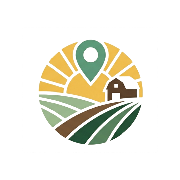
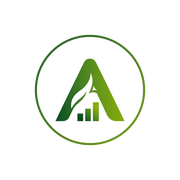
fix: login, register, and forgot pass not in full viewport and branding
add: layout and skeletal loading

Changed region(s): [[0.1667, 0.1667, 0.8333, 0.8333]]

diff --git a/frontend/src/styles/portal.css b/frontend/src/styles/portal.css
@@ -1,0 +1,152 @@
+:root {
+  font-family: Inter, ui-sans-serif, system-ui, -apple-system, BlinkMacSystemFont, "Segoe UI", sans-serif;
+  color: #173526;
+  background: #f6f3ec;
+  font-synthesis: none;
+  text-rendering: optimizeLegibility;
+  --green-950: #0f3b2d;
+  --green-900: #123f31;
+  --green-800: #18513d;
+  --green-700: #237454;
+  --green-600: #2f8a62;
+  --green-100: #e6f3eb;
+  --cream: #f6f3ec;
+  --surface: #ffffff;
+  --surface-soft: #fbfaf7;
+  --border: #e5e2da;
+  --muted: #708077;
+  --text: #173526;
+  --danger: #b54747;
+  --warning: #9a6b19;
+  --shadow: 0 10px 30px rgba(25, 56, 43, 0.08);
+}
+* { box-sizing: border-box; }
+html, body, #root { min-width: 320px; min-height: 100%; margin: 0; }
+body { min-height: 100vh; background: var(--cream); }
+button, input, select { font: inherit; }
+a { color: inherit; text-decoration: none; }
+button { cursor: pointer; }
+
+.portal-shell { min-height: 100vh; display: grid; grid-template-columns: 250px minmax(0, 1fr); }
+.portal-sidebar { position: sticky; top: 0; height: 100vh; display: flex; flex-direction: column; padding: 22px 14px 18px; background: var(--green-950); color: #fff; overflow-y: auto; }
+.brand { display: flex; align-items: center; gap: 11px; min-width: 0; }
+.brand-logo { width: 36px; height: 36px; object-fit: contain; flex: 0 0 auto; }
+.brand-copy { display: flex; flex-direction: column; min-width: 0; }
+.brand-name { font-weight: 800; letter-spacing: -0.02em; line-height: 1.1; }
+.brand-subtitle { margin-top: 3px; font-size: 10px; letter-spacing: .08em; text-transform: uppercase; color: rgba(255,255,255,.6); }
+.sidebar-brand { padding: 0 8px 22px; }
+.sidebar-section { margin: 14px 0 5px; padding: 0 10px; font-size: 10px; letter-spacing: .09em; text-transform: uppercase; color: rgba(255,255,255,.38); }
+.sidebar-nav { display: grid; gap: 3px; }
+.sidebar-link { display: flex; align-items: center; gap: 10px; padding: 10px 11px; border-radius: 8px; color: rgba(255,255,255,.72); font-size: 13px; transition: background .15s ease, color .15s ease; }
+.sidebar-link:hover { background: rgba(255,255,255,.07); color: #fff; }
+.sidebar-link.active { background: rgba(255,255,255,.12); color: #fff; font-weight: 650; box-shadow: inset 3px 0 0 #66ad83; }
+.sidebar-link svg { width: 17px; height: 17px; flex: 0 0 auto; }
+.sidebar-footer { margin-top: auto; padding-top: 18px; border-top: 1px solid rgba(255,255,255,.09); }
+.sidebar-logout { width: 100%; border: 0; background: transparent; }
+
+.portal-main { min-width: 0; }
+.portal-topbar { height: 64px; display: flex; align-items: center; justify-content: space-between; padding: 0 28px; border-bottom: 1px solid var(--border); background: rgba(246,243,236,.92); backdrop-filter: blur(10px); position: sticky; top: 0; z-index: 20; }
+.portal-topbar-title { font-weight: 780; font-size: 17px; letter-spacing: -.02em; }
+.user-pill { display: inline-flex; align-items: center; gap: 8px; padding: 6px 10px 6px 6px; border: 1px solid var(--border); border-radius: 999px; background: #fff; color: var(--text); font-size: 12px; font-weight: 650; }
+.user-avatar { width: 26px; height: 26px; display: grid; place-items: center; border-radius: 50%; background: var(--green-600); color: #fff; font-size: 10px; font-weight: 800; }
+.portal-content { padding: 26px 28px 44px; }
+.page-header { display: flex; align-items: flex-start; justify-content: space-between; gap: 18px; margin-bottom: 20px; }
+.page-title { margin: 0; font-size: 24px; line-height: 1.2; letter-spacing: -.035em; }
+.page-description { margin: 7px 0 0; color: var(--muted); font-size: 13px; line-height: 1.55; }
+.page-actions { display: flex; gap: 8px; flex-wrap: wrap; justify-content: flex-end; }
+
+.btn { display: inline-flex; align-items: center; justify-content: center; gap: 7px; min-height: 38px; padding: 0 14px; border-radius: 8px; border: 1px solid transparent; font-weight: 700; font-size: 12px; }
+.btn-primary { background: var(--green-600); color: #fff; }
+.btn-primary:hover { background: var(--green-700); }
+.btn-secondary { background: #fff; border-color: var(--border); color: var(--text); }
+
+.stats-grid { display: grid; grid-template-columns: repeat(5, minmax(0, 1fr)); gap: 10px; margin-bottom: 14px; }
+.stat-card { min-width: 0; padding: 15px; border: 1px solid var(--border); border-radius: 11px; background: var(--surface); box-shadow: 0 2px 10px rgba(25,56,43,.025); }
+.stat-head { display: flex; align-items: center; justify-content: space-between; gap: 8px; }
+.stat-label { color: var(--muted); font-size: 10px; font-weight: 750; letter-spacing: .04em; text-transform: uppercase; }
+.stat-icon { width: 28px; height: 28px; display: grid; place-items: center; border-radius: 8px; background: var(--green-100); color: var(--green-700); }
+.stat-value { margin-top: 10px; font-size: 23px; font-weight: 800; letter-spacing: -.035em; }
+.stat-helper { margin-top: 4px; color: var(--muted); font-size: 11px; }
+.dashboard-grid { display: grid; grid-template-columns: minmax(0, 1.1fr) minmax(300px, .9fr); gap: 12px; }
+.panel { border: 1px solid var(--border); border-radius: 11px; background: var(--surface); overflow: hidden; }
+.panel-header { min-height: 48px; display: flex; align-items: center; justify-content: space-between; gap: 12px; padding: 12px 15px; border-bottom: 1px solid var(--border); }
+.panel-title { margin: 0; font-size: 13px; font-weight: 800; }
+.panel-meta { color: var(--muted); font-size: 10px; }
+.panel-body { padding: 14px 15px; }
+.panel-flush { padding: 0; }
+.quick-grid { display: grid; grid-template-columns: repeat(2, minmax(0,1fr)); gap: 8px; }
+.quick-action { display: flex; align-items: center; gap: 9px; min-height: 48px; padding: 10px 11px; border: 1px solid var(--border); border-radius: 8px; background: var(--surface-soft); font-size: 11px; font-weight: 700; }
+.quick-icon { width: 28px; height: 28px; display: grid; place-items: center; border-radius: 8px; background: var(--green-100); color: var(--green-700); }
+.activity-list { display: grid; gap: 7px; }
+.activity-item { display: grid; grid-template-columns: 30px minmax(0,1fr); gap: 9px; padding: 9px; border-radius: 8px; background: var(--surface-soft); }
+.activity-icon { width: 30px; height: 30px; display: grid; place-items: center; border-radius: 8px; background: var(--green-100); color: var(--green-700); }
+.activity-title { font-size: 11px; font-weight: 760; }
+.activity-detail { margin-top: 3px; color: var(--muted); font-size: 10px; }
+
+.table-toolbar { display: flex; align-items: center; justify-content: space-between; gap: 10px; padding: 12px 15px; border-bottom: 1px solid var(--border); }
+.toolbar-left, .toolbar-right { display: flex; align-items: center; gap: 8px; flex-wrap: wrap; }
+.search-control { position: relative; min-width: 220px; }
+.search-control svg { position: absolute; left: 11px; top: 50%; transform: translateY(-50%); color: #8a958f; }
+.search-control input, .filter-select { width: 100%; height: 36px; border: 1px solid var(--border); border-radius: 7px; background: #fff; color: var(--text); outline: none; }
+.search-control input { padding: 0 12px 0 34px; }
+.filter-select { min-width: 130px; padding: 0 30px 0 10px; }
+.search-control input:focus, .filter-select:focus { border-color: #85b79c; box-shadow: 0 0 0 3px rgba(47,138,98,.08); }
+.table-wrap { width: 100%; overflow-x: auto; }
+.data-table { width: 100%; border-collapse: collapse; font-size: 11px; }
+.data-table th { padding: 9px 12px; background: #f6f7f3; color: #6c7871; text-align: left; font-size: 9px; letter-spacing: .04em; text-transform: uppercase; white-space: nowrap; }
+.data-table td { padding: 10px 12px; border-top: 1px solid #ece9e2; white-space: nowrap; }
+.data-table tbody tr:hover { background: #fbfcfa; }
+.status-badge { display: inline-flex; align-items: center; border-radius: 999px; padding: 4px 7px; font-size: 9px; font-weight: 780; }
+.status-success { color: #246b49; background: #e6f4eb; }
+.status-warning { color: #8b6417; background: #fff3cf; }
+.status-danger { color: #9c4040; background: #fde9e7; }
+.status-neutral { color: #66736c; background: #edf0ee; }
+
+.placeholder-wrap { max-width: 980px; }
+.placeholder-card { padding: 22px; border: 1px dashed #bec9c2; border-radius: 12px; background: rgba(255,255,255,.56); }
+.placeholder-card h2 { margin: 0 0 7px; font-size: 16px; }
+.placeholder-card p { margin: 0; color: var(--muted); font-size: 13px; line-height: 1.6; }
+.component-preview { margin-top: 16px; }
+
+.auth-page { min-height: 100vh; display: grid; place-items: center; padding: 28px 16px; background: var(--cream); }
+.auth-card { width: min(100%, 390px); padding: 26px; border: 1px solid var(--border); border-radius: 14px; background: #fff; box-shadow: var(--shadow); }
+.auth-brand { margin-bottom: 22px; }
+.auth-card h1 { margin: 0; font-size: 25px; letter-spacing: -.035em; }
+.auth-description { margin: 7px 0 20px; color: var(--muted); font-size: 12px; line-height: 1.5; }
+.form-group { display: grid; gap: 6px; margin-bottom: 13px; }
+.form-label { font-size: 11px; font-weight: 760; }
+.form-control { height: 40px; padding: 0 11px; border: 1px solid var(--border); border-radius: 7px; background: #fff; outline: none; }
+.form-control:focus { border-color: #85b79c; box-shadow: 0 0 0 3px rgba(47,138,98,.08); }
+.password-wrap { position: relative; }
+.password-wrap .form-control { width: 100%; padding-right: 40px; }
+.password-toggle { position: absolute; right: 5px; top: 50%; transform: translateY(-50%); display: grid; place-items: center; width: 32px; height: 32px; border: 0; background: transparent; color: #829088; }
+.auth-submit { width: 100%; margin-top: 3px; }
+.auth-back { display: flex; justify-content: center; margin-top: 15px; color: var(--green-700); font-size: 11px; font-weight: 650; }
+
+@media (max-width: 1120px) { .stats-grid { grid-template-columns: repeat(3, minmax(0,1fr)); } }
+@media (max-width: 900px) {
+  .portal-shell { grid-template-columns: 82px minmax(0,1fr); }
+  .portal-sidebar { padding-inline: 10px; }
+  .brand-copy, .sidebar-section, .sidebar-link span, .sidebar-footer span { display: none; }
+  .sidebar-brand { display: grid; place-items: center; padding-inline: 0; }
+  .sidebar-link { justify-content: center; padding: 11px; }
+  .dashboard-grid { grid-template-columns: 1fr; }
+}
+@media (max-width: 680px) {
+  .portal-shell { display: block; }
+  .portal-sidebar { position: static; width: 100%; height: auto; overflow: visible; }
+  .sidebar-brand, .sidebar-section, .sidebar-nav, .sidebar-footer { display: none; }
+  .portal-topbar { padding: 0 16px; }
+  .portal-content { padding: 18px 16px 32px; }
+  .stats-grid { grid-template-columns: repeat(2, minmax(0,1fr)); }
+  .page-header { flex-direction: column; }
+  .page-actions { justify-content: flex-start; }
+  .table-toolbar { align-items: stretch; flex-direction: column; }
+  .toolbar-left, .toolbar-right { width: 100%; }
+  .search-control { width: 100%; min-width: 0; }
+}
+
+.farmer-bottom-nav{display:none}.module-page__header h1{margin:0;font-size:24px;letter-spacing:-.035em}.module-page__header p{color:var(--muted);font-size:13px}.farmer-portal-shell .portal-sidebar{padding-bottom:24px}@media(max-width:680px){.farmer-portal-shell{padding-bottom:70px}.farmer-portal-shell .portal-sidebar{display:none}.farmer-bottom-nav{position:fixed;z-index:50;left:0;right:0;bottom:0;height:66px;display:grid;grid-template-columns:repeat(5,1fr);background:#fff;border-top:1px solid var(--border);padding-bottom:env(safe-area-inset-bottom)}.farmer-bottom-nav a{display:flex;flex-direction:column;align-items:center;justify-content:center;gap:4px;color:var(--muted);font-size:10px;font-weight:650}.farmer-bottom-nav a svg{font-size:19px}.farmer-bottom-nav a.active{color:var(--green-700)}.skeleton-shell.farmer-portal-shell{padding-bottom:70px}.skeleton-shell.farmer-portal-shell .skeleton-sidebar{display:none}.skeleton-bottom-nav{position:fixed;z-index:50;left:0;right:0;bottom:0;height:66px;display:grid;grid-template-columns:repeat(5,1fr);gap:18px;align-items:center;padding:10px 20px;background:#f5f7f4;border-top:1px solid #e1e6e1}.skeleton-bottom-item{height:35px}}
+
+/* Route transition skeleton. Brand mark and AgriPrice title are intentionally skeletonized too. */
+.skeleton-shell{background:#f6f3ec}.skeleton-block{display:block;background:linear-gradient(90deg,#eef1ed 25%,#f8faf7 50%,#eef1ed 75%);background-size:200% 100%;animation:skeleton-shimmer 1.25s ease-in-out infinite;border-radius:8px}.skeleton-sidebar{background:#f1f5f0!important}.skeleton-brand{display:flex;align-items:center;gap:11px;padding:0 8px 24px}.skeleton-logo{width:36px;height:36px;border-radius:50%;background:linear-gradient(90deg,#dfe9e1 25%,#f7faf7 50%,#dfe9e1 75%);background-size:200% 100%}.skeleton-brand-title{width:112px;height:17px}.skeleton-caption{width:62px;height:8px;margin:14px 10px 8px}.skeleton-nav{height:38px;margin:4px 4px;background:linear-gradient(90deg,#e2ebe3 25%,#f8faf7 50%,#e2ebe3 75%);background-size:200% 100%}.skeleton-topbar{background:#f6f7f3!important}.skeleton-page-title{width:170px;height:19px}.skeleton-user{width:105px;height:34px;border-radius:999px}.skeleton-heading{width:min(270px,60%);height:27px;margin-bottom:10px}.skeleton-copy{width:min(430px,80%);height:12px;margin-bottom:25px}.skeleton-card-grid{display:grid;grid-template-columns:repeat(4,minmax(0,1fr));gap:12px}.skeleton-card{height:112px}.skeleton-panel-grid{display:grid;grid-template-columns:1.2fr .8fr;gap:14px;margin-top:16px}.skeleton-panel{height:280px}.skeleton-bottom-nav{display:none}@keyframes skeleton-shimmer{0%{background-position:200% 0}100%{background-position:-200% 0}}@media(prefers-reduced-motion:reduce){.skeleton-block{animation:none}}

diff --git a/frontend/src/layouts/MainLayout.jsx b/frontend/src/layouts/MainLayout.jsx
@@ -1,22 +1,13 @@
-import { Outlet } from 'react-router-dom';
+import { useEffect, useState } from "react";
+import { NavLink, Outlet, useLocation } from "react-router-dom";
+import { FiBell } from "react-icons/fi";
+import Brand from "../components/common/Brand";
+import PortalSkeleton from "../components/common/PortalSkeleton";
+import { navigation } from "../config/navigation";
 
-/**
- * MainLayout — Shell layout for all public pages.
- * Add a shared Navbar, Footer, or Sidebar here.
- */
-function MainLayout() {
-  return (
-    <div className="app-wrapper">
-      {/* TODO: <Navbar /> */}
-
-      <main className="main-content">
-        {/* <Outlet /> renders the matched child route */}
-        <Outlet />
-      </main>
-
-      {/* TODO: <Footer /> */}
-    </div>
-  );
+export default function MainLayout(){
+ const location=useLocation(); const [loading,setLoading]=useState(true);
+ useEffect(()=>{ setLoading(true); const timer=setTimeout(()=>setLoading(false),260); window.scrollTo(0,0); return()=>clearTimeout(timer); },[location.pathname]);
+ if(loading) return <PortalSkeleton farmer/>;
+ return <div className="portal-shell farmer-portal-shell"><aside className="portal-sidebar"><div className="sidebar-brand"><Brand subtitle={navigation.portalLabel}/></div>{navigation.sections.map(section=><div key={section.label}><div className="sidebar-section">{section.label}</div><nav className="sidebar-nav">{section.items.map(({label,path,icon:Icon})=><NavLink className="sidebar-link" to={path} end={path==="/"} key={path}><Icon/><span>{label}</span></NavLink>)}</nav></div>)}</aside><div className="portal-main"><header className="portal-topbar"><span className="portal-topbar-title">{navigation.topbarTitle}</span><NavLink className="user-pill" to="/notifications" aria-label="Notifications"><FiBell/><span>Notifications</span></NavLink></header><main className="portal-content"><Outlet/></main></div><nav className="farmer-bottom-nav">{navigation.bottom.map(({label,path,icon:Icon})=><NavLink to={path} end={path==="/"} key={path}><Icon/><span>{label}</span></NavLink>)}</nav></div>;
 }
-
-export default MainLayout;

diff --git a/frontend/src/components/common/PortalSkeleton.jsx b/frontend/src/components/common/PortalSkeleton.jsx
@@ -1,0 +1,22 @@
+function Block({ className = "" }) { return <span className={`skeleton-block ${className}`.trim()} aria-hidden="true" />; }
+
+export default function PortalSkeleton({ farmer = false }) {
+  return (
+    <div className={`portal-shell skeleton-shell ${farmer ? "farmer-portal-shell" : ""}`}>
+      <aside className="portal-sidebar skeleton-sidebar">
+        <div className="skeleton-brand"><Block className="skeleton-logo"/><Block className="skeleton-brand-title"/></div>
+        <Block className="skeleton-caption"/>
+        {Array.from({length: 7}, (_, i) => <Block className="skeleton-nav" key={i}/>)}
+      </aside>
+      <div className="portal-main">
+        <header className="portal-topbar skeleton-topbar"><Block className="skeleton-page-title"/><Block className="skeleton-user"/></header>
+        <main className="portal-content skeleton-content">
+          <Block className="skeleton-heading"/><Block className="skeleton-copy"/>
+          <div className="skeleton-card-grid">{Array.from({length:4},(_,i)=><Block className="skeleton-card" key={i}/>)}</div>
+          <div className="skeleton-panel-grid"><Block className="skeleton-panel"/><Block className="skeleton-panel"/></div>
+        </main>
+      </div>
+      {farmer && <div className="skeleton-bottom-nav">{Array.from({length:5},(_,i)=><Block className="skeleton-bottom-item" key={i}/>)}</div>}
+    </div>
+  );
+}

diff --git a/frontend/src/config/navigation.js b/frontend/src/config/navigation.js
@@ -1,0 +1,11 @@
+import { FiGrid, FiTag, FiClock, FiTrendingUp, FiMapPin, FiDollarSign, FiBarChart2, FiMoreHorizontal, FiUser, FiSettings, FiHelpCircle } from "react-icons/fi";
+export const navigation = {
+ portalLabel:"Farmer Portal", topbarTitle:"Farmer Dashboard", userInitials:"FR", userLabel:"Farmer",
+ sections:[
+  {label:"Overview",items:[{label:"Dashboard",path:"/",icon:FiGrid}]},
+  {label:"Market Data",items:[{label:"Crop Prices",path:"/prices",icon:FiTag},{label:"Historical Prices",path:"/historical",icon:FiClock},{label:"Forecast",path:"/forecast",icon:FiTrendingUp}]},
+  {label:"Decision Support",items:[{label:"Market Recommendation",path:"/markets",icon:FiMapPin},{label:"Profit Estimation",path:"/profit",icon:FiDollarSign},{label:"Reports & Analytics",path:"/reports",icon:FiBarChart2}]},
+  {label:"Account",items:[{label:"More",path:"/more",icon:FiMoreHorizontal},{label:"Profile",path:"/profile",icon:FiUser},{label:"Settings",path:"/settings",icon:FiSettings},{label:"Help",path:"/help",icon:FiHelpCircle}]}
+ ],
+ bottom:[{label:"Home",path:"/",icon:FiGrid},{label:"Prices",path:"/prices",icon:FiTag},{label:"Forecast",path:"/forecast",icon:FiTrendingUp},{label:"Markets",path:"/markets",icon:FiMapPin},{label:"More",path:"/more",icon:FiMoreHorizontal}]
+};

diff --git a/frontend/src/styles/auth.css b/frontend/src/styles/auth.css
@@ -1,3 +1,5 @@
+html,body,#root{width:100%;min-height:100%;margin:0;padding:0}
+body{min-height:100vh}
 :root { --auth-green:#123d2e; --auth-accent:#2d8a57; --auth-text:#183128; --auth-muted:#6b756f; --auth-border:#dce3dd; --auth-bg:#f8f7f3; }
 * { box-sizing: border-box; }
 .auth-shell{min-height:100dvh;display:grid;grid-template-columns:1fr 1fr;background:var(--auth-bg);font-family:-apple-system,BlinkMacSystemFont,"Segoe UI",Roboto,Helvetica,Arial,sans-serif;color:var(--auth-text)}

diff --git a/frontend/src/pages/SignIn.jsx b/frontend/src/pages/SignIn.jsx
@@ -1,0 +1,4 @@
+import { useNavigate } from "react-router-dom";
+import PortalSignIn from "../components/common/PortalSignIn";
+function SignIn(){const navigate=useNavigate(); return <PortalSignIn portalName="Administration" title="Admin Sign In" description="Sign in to manage AgriPrice data and administrative functions." emailPlaceholder="admin@agriprice.ph" onSubmit={()=>navigate("/")}/>}
+export default SignIn;

diff --git a/frontend/src/components/common/Brand.jsx b/frontend/src/components/common/Brand.jsx
@@ -1,0 +1,12 @@
+function Brand({ subtitle = "" }) {
+  return (
+    <div className="brand">
+      <img className="brand-logo" src="/images/agriprice-logo.png" alt="AgriPrice" />
+      <div className="brand-copy">
+        <span className="brand-name">AgriPrice</span>
+        {subtitle ? <span className="brand-subtitle">{subtitle}</span> : null}
+      </div>
+    </div>
+  );
+}
+export default Brand;

diff --git a/frontend/src/index.css b/frontend/src/index.css
@@ -1,6 +1,3 @@
-.wrapper{
-    position: relative;
-    width: 420px;
-    height: 450px;
-    background: #08b80e;
-}
+@import "./styles/portal.css";
+html, body, #root { width:100%; min-width:320px; min-height:100%; margin:0; padding:0; }
+body { min-height:100vh; }

diff --git a/frontend/src/main.jsx b/frontend/src/main.jsx
@@ -1,5 +1,6 @@
 import { StrictMode } from 'react';
 import { createRoot } from 'react-dom/client';
+import './index.css';
 import App from './App.jsx';
 
 createRoot(document.getElementById('root')).render(
